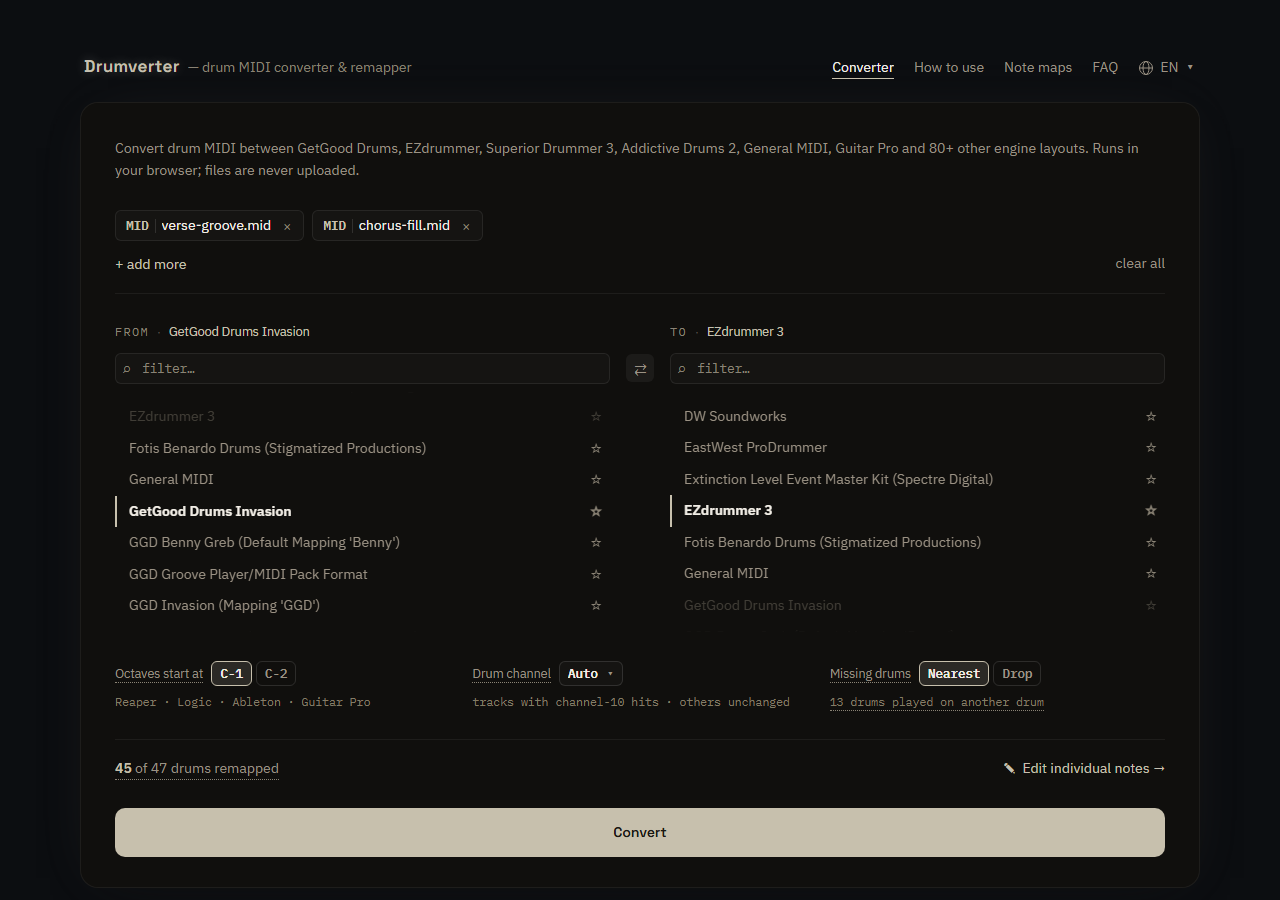
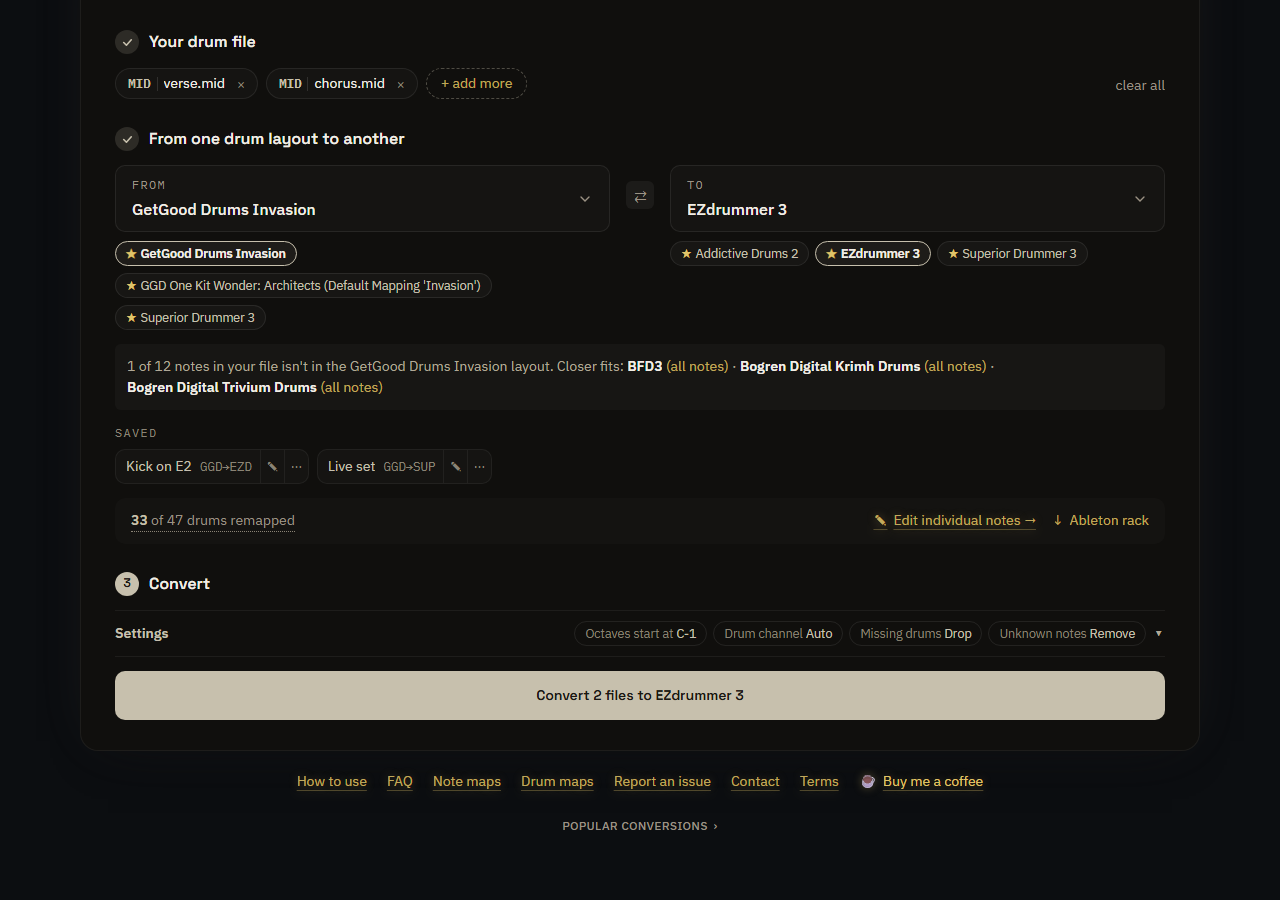
Bring the READMEs and architecture notes up to date with the Ableton racks and drum maps, with a screenshot a Playwright spec makes

diff --git a/app/e2e/readme.screenshot.spec.ts b/app/e2e/readme.screenshot.spec.ts
@@ -1,0 +1,77 @@
+import { fileURLToPath } from 'node:url';
+import { storedName, type StorageKey } from '../src/core/storage';
+import { addFiles, DRUMS, expect, midFile, openPair, test } from './fixtures';
+import { engineSide, openSettings, saved } from './steps';
+
+const SCREENSHOT = fileURLToPath(new URL('../../docs/screenshot.png', import.meta.url));
+
+const PRESETS = [
+  {
+    id: 'kick-e2',
+    name: 'Kick on E2',
+    src: 'ggd_invasion',
+    tgt: 'ezdrummer',
+    edits: { 'kick.main': 40 },
+    srcEdits: {},
+    updatedAt: 2,
+  },
+  {
+    id: 'live-set',
+    name: 'Live set',
+    src: 'ggd_architects',
+    tgt: 'superior_drummer3',
+    edits: { 'snare1.hit': 38 },
+    srcEdits: {},
+    updatedAt: 1,
+  },
+];
+
+const STORED: [StorageKey, unknown][] = [
+  ['favorites:from', ['ggd_invasion', 'ggd_architects', 'superior_drummer3']],
+  ['favorites:to', ['ezdrummer', 'superior_drummer3', 'addictive_drums2']],
+  ['mappings', { version: 1, items: PRESETS }],
+  ['tip', { downloads: 0, shownAt: null, tippedAt: Date.now() }],
+];
+
+const groove = (name: string, keys: number[]) =>
+  midFile(name, keys.map((key, i) => ({ channel: DRUMS, key, gap: i === 0 ? 0 : 48 })));
+
+test('the README screenshot shows the converter with every step in use', async ({ page }) => {
+  await page.addInitScript((entries) => {
+    for (const [name, value] of entries) localStorage.setItem(name, value);
+  }, STORED.map(([key, value]) => [storedName(key), JSON.stringify(value)] as const));
+  await openPair(page);
+  await addFiles(page, groove('verse.mid', [24, 26, 30, 24, 26, 30]), groove('chorus.mid', [24, 49, 26, 57, 24, 26]));
+
+  await openSettings(page);
+  await page.getByRole('radiogroup', { name: 'Missing drums' }).getByText('Drop', { exact: true }).click();
+  await expect(page.getByRole('radio', { name: 'Drop' })).toBeChecked();
+  const fold = page.getByTestId('settings-fold');
+  await fold.locator('summary').click();
+  await expect(fold).not.toHaveAttribute('open');
+
+  await page.mouse.move(0, 0);
+  await page.evaluate(() => {
+    if (document.activeElement instanceof HTMLElement) document.activeElement.blur();
+  });
+  await page.getByText('verse.mid', { exact: true }).scrollIntoViewIfNeeded();
+
+  const shown = [
+    engineSide(page, 'FROM').getByRole('list', { name: 'Favourites' }),
+    engineSide(page, 'TO').getByRole('list', { name: 'Favourites' }),
+    saved(page).getByRole('button', { name: /^Kick on E2/ }),
+    saved(page).getByRole('button', { name: /^Live set/ }),
+    page.getByText('verse.mid', { exact: true }),
+    page.getByText('chorus.mid', { exact: true }),
+    page.getByRole('button', { name: /Edit individual notes/ }),
+    page.getByRole('button', { name: /^Download an Ableton rack for / }),
+    fold.locator('summary').getByText('Drop', { exact: true }),
+  ];
+  for (const element of shown) {
+    await expect(element).toBeVisible();
+    await expect(element).toBeInViewport();
+  }
+  await expect(page.getByRole('tooltip')).toHaveCount(0);
+
+  await page.screenshot({ path: SCREENSHOT });
+});

diff --git a/app/playwright.config.ts b/app/playwright.config.ts
@@ -14,7 +14,7 @@ export default defineConfig({
     trace: process.env.CI ? 'on-first-retry' : 'off',
   },
   projects: [
-    { name: 'desktop', use: { ...devices['Desktop Chrome'] }, testIgnore: /touch\.spec/, grepInvert: /@phone/ },
+    { name: 'desktop', use: { ...devices['Desktop Chrome'] }, testIgnore: [/touch\.spec/, /readme\.screenshot\.spec/], grepInvert: /@phone/ },
     {
       name: 'phone',
       use: { ...devices['Pixel 7'] },

diff --git a/app/playwright.screenshot.config.ts b/app/playwright.screenshot.config.ts
@@ -1,0 +1,13 @@
+import { defineConfig, devices } from '@playwright/test';
+import base from './playwright.config';
+
+export default defineConfig({
+  ...base,
+  projects: [
+    {
+      name: 'readme',
+      use: { ...devices['Desktop Chrome'], viewport: { width: 1280, height: 900 } },
+      testMatch: /readme\.screenshot\.spec/,
+    },
+  ],
+});

diff --git a/ARCHITECTURE.md b/ARCHITECTURE.md
@@ -37,11 +37,11 @@ Five crates, a web app, and embedded engine presets:
 
 | Component | Role | Depends on |
 |-------|------|------------|
-| `midiremap-core` | Pure engine. No I/O beyond parsing bytes handed to it. All the logic below. | `midly`, `serde`, `serde_json`, `strum`, `thiserror` (`toml` at build and test time only; `tsify` and `wasm-bindgen` behind the feature `ts`) |
+| `midiremap-core` | Pure engine. No I/O beyond parsing bytes handed to it. All the logic below. | `midly`, `quick-xml`, `serde`, `serde_json`, `strum`, `thiserror` (`toml` at build and test time only; `tsify` and `wasm-bindgen` behind the feature `ts`) |
 | `midiremap-cli` | Offline `convert` / `list` binary. | core, `clap`, `anyhow` |
 | `midiremap-wasm` | Browser bindings for the web app. | core (feature `ts`), `wasm-bindgen`, `tsify`, `serde`, `serde_bytes`, `console_error_panic_hook` |
 | `app/` | Vite + React + TypeScript converter UI over the WASM bindings. | Vite, React, Tailwind, Vitest |
-| `midiremap-site` | Static SEO pages (engine note maps, pair tables, FAQ / guide / legal pages) in the app's style. | core, `askama`, `fluent-bundle`, `clap`, `serde_json`, `thiserror` (`fluent-syntax`, `heck` in `build.rs`) |
+| `midiremap-site` | Static SEO pages (engine note maps, pair tables, FAQ / guide / legal pages) in the app's style. | core, `askama`, `fluent-bundle`, `clap`, `flate2`, `serde_json`, `thiserror` (`fluent-syntax`, `heck` in `build.rs`) |
 | `midiremap-testkit` | Test-only: builds and reads small SMFs (channels `1..=16`) for the other crates' tests; a key, channel or delta out of range panics. | `midly` |
 | `engines/*.toml` | Preset note↔canon maps; core's `build.rs` converts them to one embedded JSON table. | — |
 
@@ -83,6 +83,10 @@ fit         ── note_hits / source_fits: how well each engine's layout covers
 plan        ── per-drum rows from the Mapping the converter uses (for UI display), no MIDI
 preset      ── the preset file the app exports and the CLI reads
 sample      ── sample_file: a two-bar groove on the notes one engine plays, written by midi
+ableton     ── rack_file: an Ableton Live MIDI Effect Rack from a Mapping (RackFile); note_name_rack
+daw_map     ── Daw (Reaper, Cubase, Studio One, Ableton Live): an engine's drum-map file and its Packing
+file        ── FileStem: a name cleaned into a file name every system accepts
+packing     ── Packing { Text | Gzip }: how a file's text is stored; core writes text only
 ```
 
 Every concept is one concrete type or function; the core defines no traits.
@@ -168,7 +172,13 @@ the rules allow.
   note and reads the same outcome. `with_unrecognized(Unrecognized)` sets, once, what the
   conversion does with notes that do not decode (`Remove` unless set); the `NoteTable`
   compiled from the mapping carries that choice to `rewrite`. It changes neither the
-  resolutions nor the report, only whether those notes are written.
+  resolutions nor the report, only whether those notes are written. The mapping also keeps
+  the two engines' display names, which only the Ableton rack reads (its title), so a rack
+  titled A → B cannot play C's layout.
+- `dropped_drums()` is the one rule for "a drum the source plays that the target leaves
+  out": every drum a source note decodes to (`played_drums`, edits applied) whose outcome is
+  `Dropped`. `plan` fills a row's `srcNotes` from the same `played_drums`, the site's pair
+  pages and the rack's `dropped` count read `dropped_drums`.
 - A drum the target has plays on its own note. Otherwise the first drum of its fallback
   chain that the target has stands in; `Drop` walks the same chain filtered to
   `Canon::same_drum`, so both modes share one order. `moves_to_other_drum()` on the
@@ -202,6 +212,13 @@ the rules allow.
   `Mapping` by calling `Mapping::translate` for each note.
 - The converter reads the table for every event, so the fallback search never runs
   per MIDI event, and the report records what the table said.
+- `destination(note) → Option<Destination>` is the one rule for where a source note plays:
+  `Drum { canon, note }` for a direct or approximated hit, `Kept(note)` for a note the
+  source does not know when the table's `Unrecognized` is `Keep`, `None` when the note is
+  dropped or removed. `rewrite` and the Ableton rack both read it, so the rack plays every
+  note where the converted file puts it (`tests/ableton_racks.rs` checks that note for note
+  over five engines' pairs, both Missing drums and both Unrecognized settings, with and
+  without edits).
 - The edit preview (`plan`) compiles the same table to group source notes by drum, and
   reads each drum's outcome from the same `Mapping`, which is where the table's entries
   come from: the preview and the file share one compiled outcome per drum.
@@ -224,7 +241,7 @@ the rules allow.
   across channels convert whole, and files with drums elsewhere convert as before.
   Parses from `auto`, `all` or `1`..=`16`.
 - `rewrite`: `rewrite(&mut smf, &NoteTable, ChannelScope, &mut Report)` applies the
-  table to the events each track's filter accepts:
+  table's `destination` to the events each track's filter accepts:
   - Note-on/off and poly aftertouch keys are rewritten to the resolved target
     note, so cymbal chokes follow their cymbal.
   - Dropped notes (and their aftertouch) are removed, and so are unmapped ones unless
@@ -404,6 +421,12 @@ error and 2 on a usage error.
   (the default) or `keep`. Like `channel`, a value outside its set is `internal`: the app
   only sends its own typed values. `plan` does not take it, since no plan row is an
   unrecognized note.
+- `remap_rack(src_id, tgt_id, overrides?, missing?, unrecognized?, preset_name?) → RackFile { fileName, xml, packing, dropped }` —
+  core's `rack_file` from a `Mapping` built the way `remap` builds its own, so the rack and
+  the `.mid` read the same settings: the Ableton rack's XML, its file name (`<preset>.adg`, or
+  `<FROM> to <TO>.adg`), how to pack it (`gzip`; the app packs it with `fflate`, core writes
+  text only) and how many played drums the target drops. A blank `preset_name` is
+  `badPreset`. The channel setting does not apply: the rack sits on the drum track.
 - `plan(src_id, tgt_id, overrides?, missing?) → VoiceRow[]` — a core `VoicePlan`
   (`canon, srcNotes, defaultTgtNote, outcome`, the outcome tagged by `status`) plus its
   `label` and its canon's `family`; the app reads it through `core/outcome.ts` (`playedNote`, `movesToOtherDrum`, `isPlayed`, `leadNote`).
@@ -433,8 +456,9 @@ error and 2 on a usage error.
 - A `start` function installs `console_error_panic_hook`, so a panic prints its message.
 
 The browser build uses the `wasm` Cargo profile (release with LTO and one codegen
-unit), then `wasm-opt -Oz` (npm `binaryen`) on the bindgen output: about 536 KB, 160 KB
-gzipped, against a 166 KB budget (`scripts/check-size.ts`). `opt-level` s / z made it
+unit), then `wasm-opt -Oz` (npm `binaryen`) on the bindgen output: about 587 KB, 180.5 KB
+gzipped, against a 181 KB budget (`scripts/check-size.ts`); the rack writer (`quick-xml`)
+is about 14 KB of it. `opt-level` s / z made it
 larger — a quarter of the module is the embedded engine table.
 
 One contract, generated from Rust. Every value crossing the boundary is a serde type
@@ -642,6 +666,16 @@ that both surfaces draw are `@utility` classes in `index.css` (`prose-link`,
 alike. Pair-page rows take their status from the core (`PlanStatus` of each source
 note's resolution); the site only names it (exact / approximated / dropped) and sorts
 changes first.
+
+Drum maps and racks are files beside the pages, under `/drum-maps/files/` (robots keep
+crawlers out; no sitemap lists them). Every engine has one per `Daw`: Reaper note names,
+a Cubase drum map, a Studio One pitch list and an Ableton Live names rack (`note_name_rack`,
+one empty chain per note, named after its drum). Every pair page has its rack under
+`racks/`, core's `rack_file` of the converter's default mapping (Nearest, Remove, no edits).
+`Site::files()` lists both, written by one loop; `packed` in `pages.rs` gzips a file whose
+`Packing` says so (`flate2`, mtime 0, so builds are byte-stable). `/drum-maps/` shows one
+DAW's files at a time through a CSS-only picker, and each engine page offers all four; a pair page names its rack
+under Convert, outside the sticky bar, and says when the target leaves drums silent.
 
 Tips go through Stripe Payment Links, listed once in `content/tip.json` (the
 app imports it; `build.rs` turns its `other` link into `TIP_HREF`). Every footer ends

diff --git a/app/README.md b/app/README.md
@@ -36,6 +36,7 @@ Deploy the static contents of `app/dist/` to any static host.
 npm run test     # Vitest; needs npm run build:wasm once (the contract test loads the real module)
 npm run e2e      # Playwright against vite preview of dist; run npm run build:site first
 npm run size     # size budgets for dist (wasm, JS, CSS gzipped; latin fonts; largest locale chunk; a static page's script)
+npm run screenshot  # rewrites ../docs/screenshot.png from dist (playwright.screenshot.config.ts; npm run e2e and the gate never run it)
 cargo xtask gate      # every check; a check, or the app and site build, that passed with nothing it reads changed shows cached (logs and timings.json in target/gate/)
 cargo xtask gate --fresh  # every check run again, cached or not
 cargo xtask gate app  # one group (rust; app = eslint, tsc, vitest; dist = size, e2e) or single steps; CI runs the same groups
@@ -84,10 +85,11 @@ swapping and starring engines, the picker sheet and the favourite chips; the fol
 channel, octave and missing-drums settings; the note editor (targets, filters, search,
 reset, Advanced source notes, Back); presets (save, update, rename, duplicate, delete,
 export, import into a fresh browser); the breakdown pop-ups and the edited chip; the
-named Convert, the result card, single and zip downloads, the report and its fixes; what
+named Convert, the result card, single and zip downloads, the report and its fixes; the
+Ableton racks of the summary row and of a preset's menu, read back and gunzipped; what
 a reload brings back; the static pages (header button and nav, engine pages' jump links
 and notes, pair summaries and steps, the index's filter and matrix, the drum maps' DAW
-picker and files) and their converter links; the footer dialogs; keyboard walk and focus;
+picker and files, the pair pages' racks) and their converter links; the footer dialogs; keyboard walk and focus;
 tap sizes; languages; and the crawler heading. The static-page specs (`site`,
 `sitelinks`, `drumMaps`) run on the phone too.
 `e2e/fixtures.ts` writes the MIDI files with `midi-file` and fails any test whose page
@@ -133,8 +135,8 @@ on a phone and click elsewhere.
   `parseEdits`, `parseSrcEdits` and `sameEdits` read and compare them), `missing.ts` (the
   missing-drums setting, Nearest / Drop, and its hint), `unrecognized.ts` (the
   unrecognized-notes setting, Remove / Keep as they are, and its hint), `channel.ts`, `files.ts` (the accepted extensions, once: `ACCEPT_EXTENSIONS`, `splitFiles`, `withoutMidExtension`),
-  `selection.ts` (`SelectionEvent`, handed to each reducer), `notice.ts`, `download.ts` (`saveBlob`: save a file made in memory, free its address after ten seconds),
-  `umami.ts` (the 37 analytics events, each with its exact properties, and `send`, the typed call into Umami: the only code that reads `window.umami`; the static pages' script uses it alone) and `stats.ts` (`track`, the app's call, accepting the events of `AppEvent` only: it sends one only when its tier is on, `ENABLED_TIERS`; the four events only static pages send, `StaticOnlyEvent`, have no tier), `storage.ts` (the only module that touches `localStorage`: the closed `StorageKey` set, `storedName` which
+  `selection.ts` (`SelectionEvent`, handed to each reducer), `notice.ts` (`NoticeLine`, and `Notice`: its lines and where it shows, above the saved mappings or under the summary row of one pair), `download.ts` (`saveBlob`: save a file made in memory, free its address after ten seconds), `packing.ts` (`packed`: a file's text as the bytes its `Packing` says, gzip through `fflate`),
+  `umami.ts` (the 43 analytics events, each with its exact properties, and `send`, the typed call into Umami: the only code that reads `window.umami`; the static pages' script uses it alone) and `stats.ts` (`track`, the app's call, accepting the events of `AppEvent` only: it sends one only when its tier is on, `ENABLED_TIERS`; the four events only static pages send, `StaticOnlyEvent`, have no tier), `storage.ts` (the only module that touches `localStorage`: the closed `StorageKey` set, `storedName` which
   puts `midiremap:` in front of it, and `readStored`, `readStoredStrict` (blocked or `{ value }`), `writeStored`, `removeStored`, `clearStored`, `onStoredChange` (the one `storage` event subscription); eslint
   rejects `localStorage` anywhere else in `src`), `contact.ts` (the issue and contact addresses), `engineCode.ts`
   (the three-letter badge of an engine id).
@@ -146,7 +148,9 @@ on a phone and click elsewhere.
   answering leaves conversion to the main thread, a batch is stopped through its
   `AbortSignal`), `useConverter.ts` (its `Conv` `done` arm carries the pair it converted with), `useFileIntake.ts`, `useDropGuard.ts`, `session.ts` (the setup a reload brings back: engines, settings, unsaved
   edits; `EMPTY_SESSION` states the starting settings), `preselect.ts` (the engines a link names), `planBreakdown.ts`
-  (the groups behind the "N of M drums remapped" pop-up), `stepState.ts` (which step is done,
+  (the groups behind the "N of M drums remapped" pop-up), `rack.ts` (`saveRack`: one Ableton
+  rack from the open mapping or a saved preset, saved and told in a notice; `rackDownloads`: the
+  summary row's and the preset menu's), `stepState.ts` (which step is done,
   current or waiting), and Step (a numbered step), FileChips/CardDropzone,
   OctaveToggle, ChannelSelect, MissingDrumsSetting, UnrecognizedSetting, ConvertSettings,
   SettingsFold (the settings under one line naming their values), PlanControls (PlanSettings,
@@ -195,7 +199,10 @@ on a phone and click elsewhere.
   drum file: drop `.mid` files, or try a sample groove built for the FROM layout. 2. From one
   drum layout to another: a FROM and a TO card (⇄ swaps), each opening a searchable picker
   (a bottom sheet on phones) with its favourites under the card to pick in one
-  press; the drum summary follows. 3. Convert: the settings folded under one line that
+  press; the saved mapping chips and the summary row follow: "N of M drums remapped",
+  "Edit individual notes →" and "↓ Ableton rack", a MIDI Effect Rack for Live 11 and 12 that
+  plays the FROM engine's MIDI on the TO engine with the note edits and the Missing drums and
+  Unknown notes settings, its load step told in a notice under the row. 3. Convert: the settings folded under one line that
   names their values (octave naming, drum channel, missing drums (Nearest plays a drum the target lacks on the closest
   one, Drop leaves it out) and unknown notes (Remove leaves out a note the source layout
   does not know, Keep as they are writes it out unchanged; the done panel and the report
@@ -206,7 +213,8 @@ on a phone and click elsewhere.
   missing-drums counts lists what happens to each drum, with a link into the editor; a
   disabled Convert says why beside the mouse. Presets live in the browser; they can be
   exported (⋯ → Export) as `<name>-drumverter.json` and imported by dropping or picking
-  the file. The report groups dropped / approximated /
+  the file; ⋯ → Ableton rack downloads the rack of that preset's engines and edits, whichever
+  pair is open. The report groups dropped / approximated /
   unrecognized / unchanged notes with links to fix each one; after a conversion that
   moved drums to another drum, "Drop missing drums & convert again" re-runs it with Drop.
 - **Edit notes**: drums grouped by family with a filter and All / Changed / Issues chips;

diff --git a/README.md b/README.md
@@ -8,17 +8,28 @@ are never uploaded.
 
 ![Drumverter converter](docs/screenshot.png)
 
+- Three steps: add your `.mid` files (or try a sample groove), pick the FROM and TO
+  engines, convert. Star an engine to keep it as a one-press favourite under its card.
 - Every note goes through a shared drum vocabulary, so any engine converts to any other.
 - A drum the target lacks is played on the nearest one it has (a China on a crash), or
   left out if you choose **Drop**; a rimshot or flam still falls back to a plain hit on
   the same drum.
 - A note the source layout does not know is removed, or kept as it is if you choose
   **Keep as they are** (for files partly written for another kit).
-- Hover the dotted counts to see what happens to every drum before converting; each
-  conversion comes with a report of approximated, dropped and unrecognized notes, with
-  links to fix them in the note editor.
-- Edits can be saved as presets. Presets stay in your browser; export one (`.json`) and
-  drop it on the page to use it elsewhere.
+- Once both engines are picked, a summary row says how many drums move; hover the dotted
+  count to see what happens to every drum, **Edit individual notes →** to change any of
+  them, or **↓ Ableton rack** to play live instead of converting (below). Each conversion
+  comes with a report of approximated, dropped and unrecognized notes, with links to fix
+  them in the note editor.
+- Edits can be saved as presets, shown as chips under the engines: a click loads one, and
+  its ⋯ menu renames, duplicates, exports (`.json`), downloads its Ableton rack or deletes
+  it. Presets stay in your browser; drop an exported one on the page to use it elsewhere.
+- **Ableton racks**: a MIDI Effect Rack (`.adg`) for Live 11 and 12 that you put in front of
+  the target plugin, so the source's MIDI plays right with no file to convert. It comes
+  from the summary row (with your note edits and settings), from a saved preset's menu, or
+  ready-made with the defaults on each pair's page.
+- **Drum maps**: every engine's note names for Reaper, Cubase, Studio One and Ableton Live,
+  on [drumverter.com/drum-maps/](https://drumverter.com/drum-maps/) and each engine's page.
 - Batch conversion, drum-channel selection, 11 languages, and a command-line tool for
   offline use.
 
@@ -26,10 +37,10 @@ are never uploaded.
 
 | Path | What it is |
 |---|---|
-| `midiremap-core` | Pure Rust engine: canonical drums, fallback chains, MIDI rewrite, loss report |
+| `midiremap-core` | Pure Rust engine: canonical drums, fallback chains, MIDI rewrite, loss report, Ableton racks and DAW drum maps |
 | `midiremap-cli` | Offline `convert` / `list` command |
 | `midiremap-wasm` | Browser bindings used by the app |
-| `midiremap-site` | Static pages: per-engine note maps, pair tables, FAQ and guide |
+| `midiremap-site` | Static pages: per-engine note maps, pair tables, drum-map files and pair racks, FAQ and guide |
 | `midiremap-testkit` | Test helpers that build and read small MIDI files |
 | `app/` | Vite + React + TypeScript converter UI |
 | `engines/*.toml` | One note map per engine, embedded at build time |
@@ -59,6 +70,7 @@ npm run build:site   # app + static pages into app/dist
 npx playwright install chromium   # once
 npm run e2e          # browser tests of every user story against app/dist, desktop and phone
 npm run size         # size budgets for app/dist/assets
+npm run screenshot   # rewrites docs/screenshot.png from app/dist (not part of e2e or the gate)
 
 cd ..
 cargo xtask gate                 # every check in one run; logs and timings.json in target/gate/
